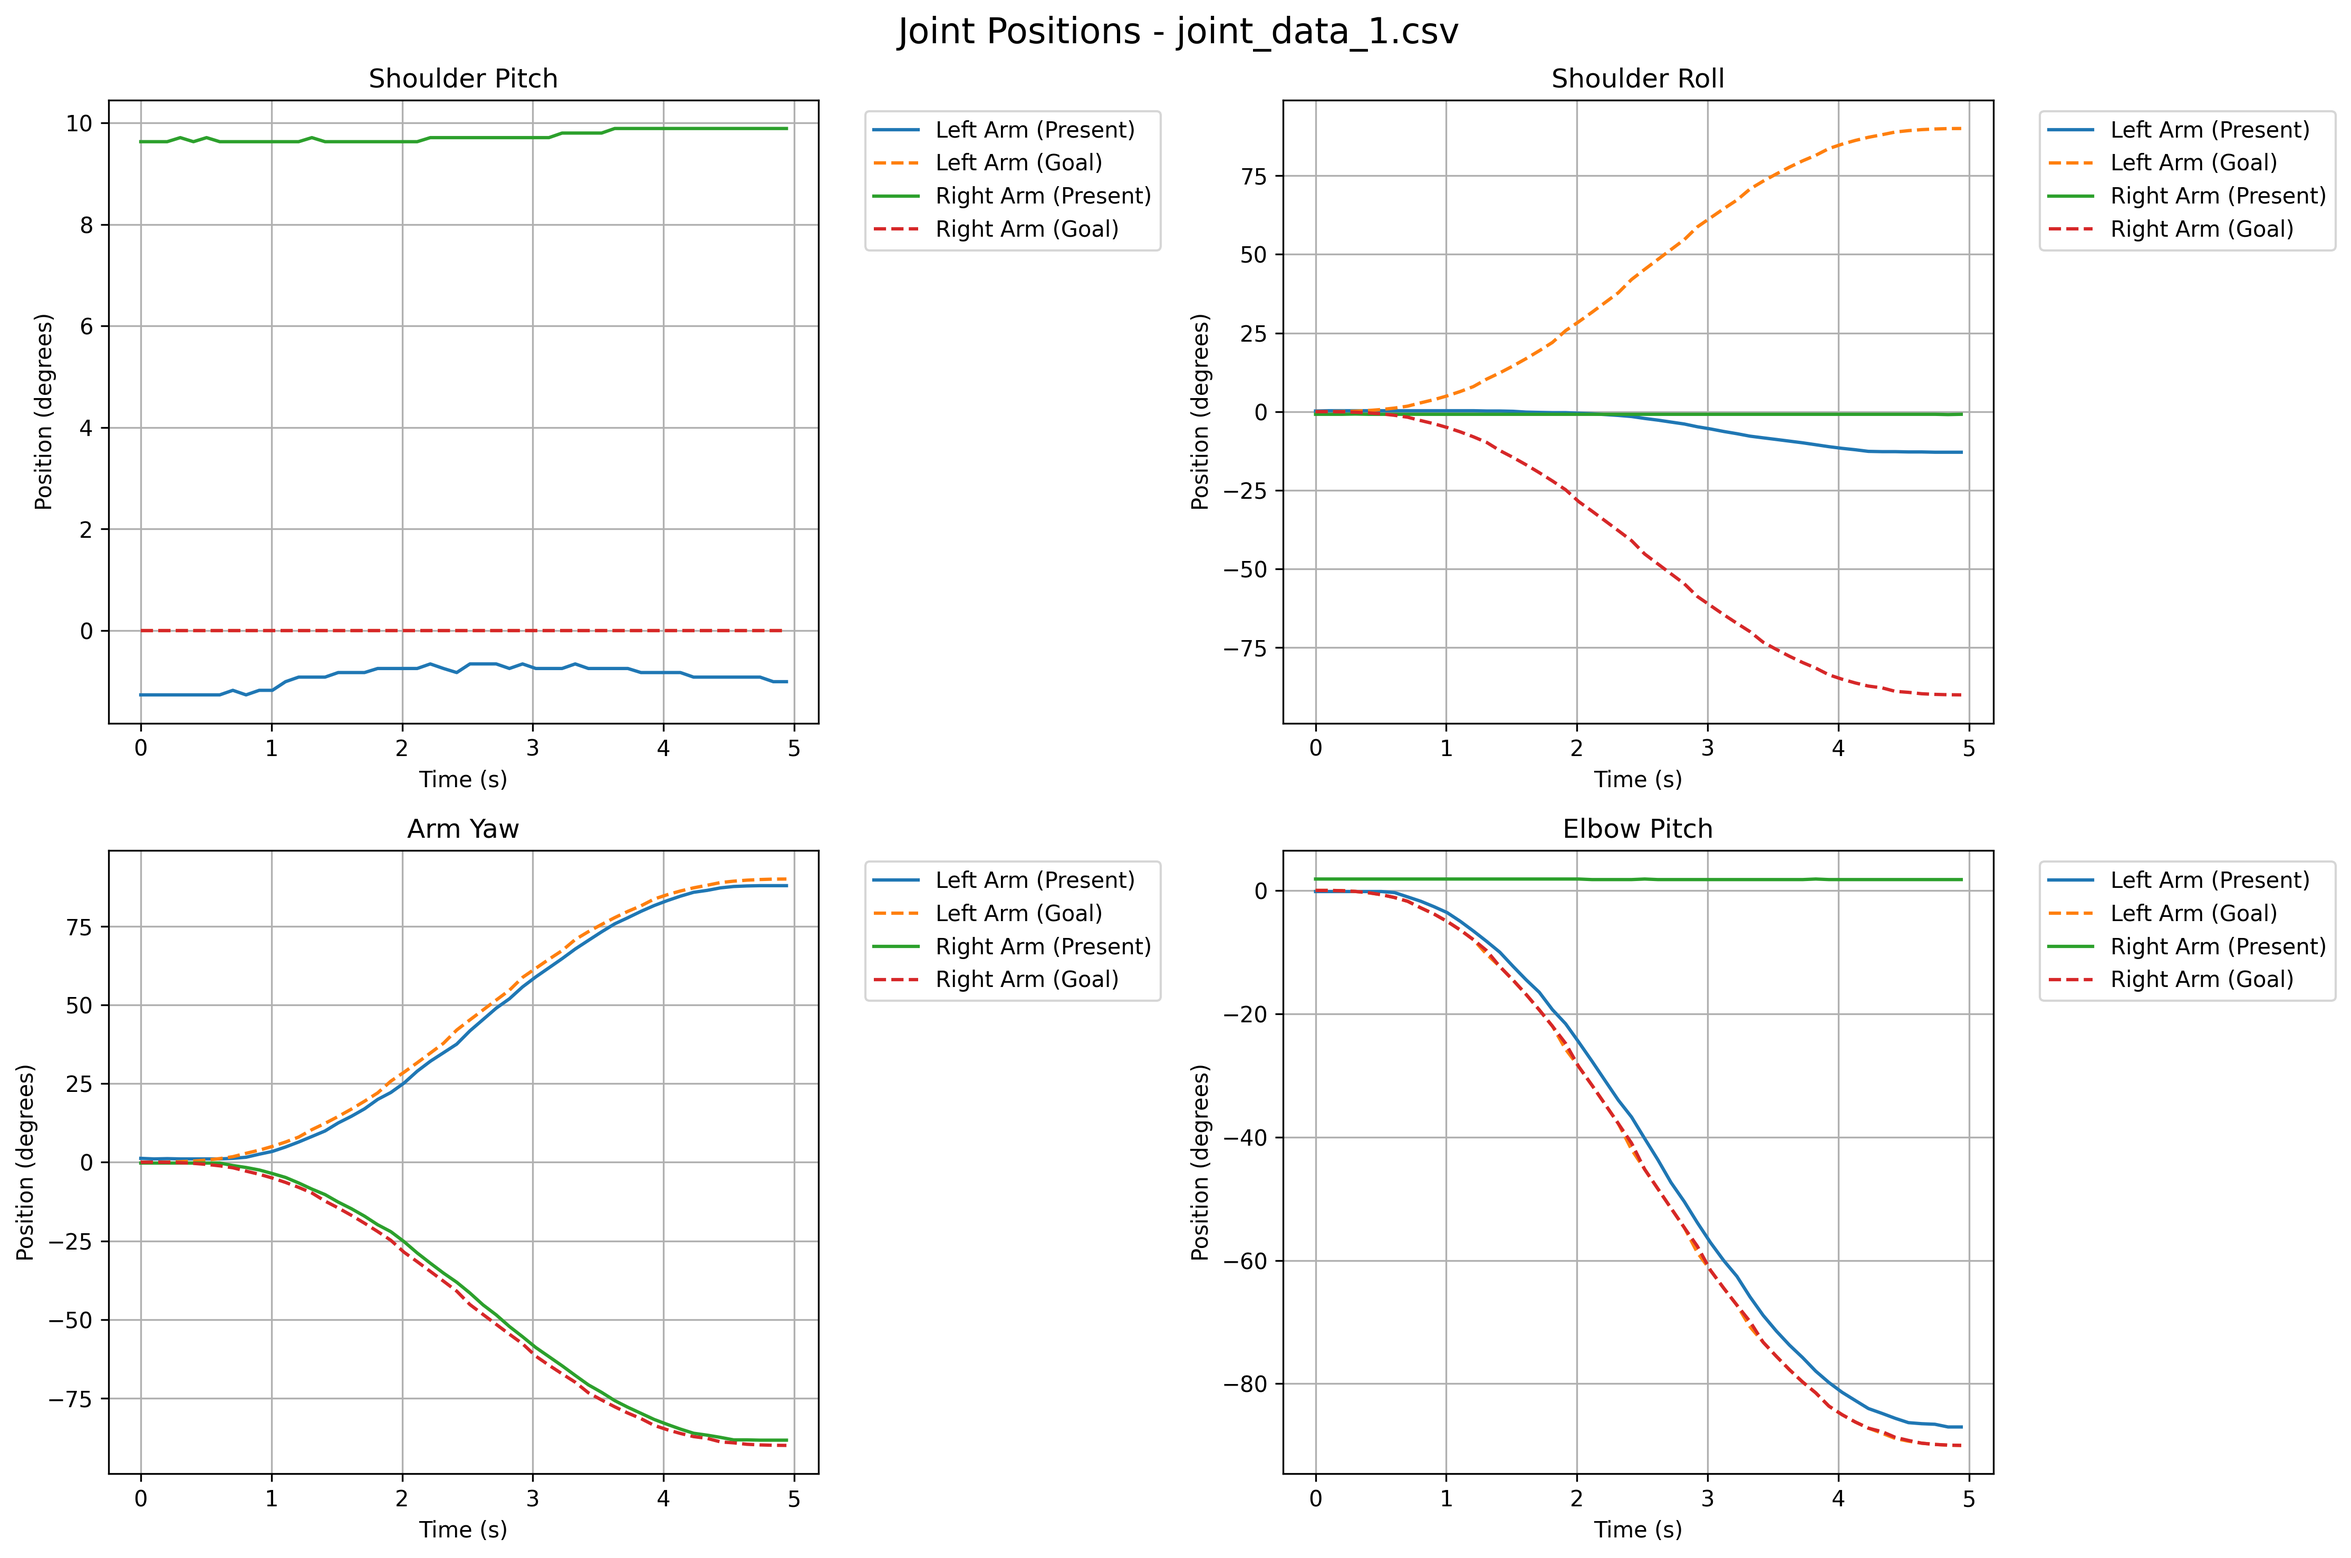
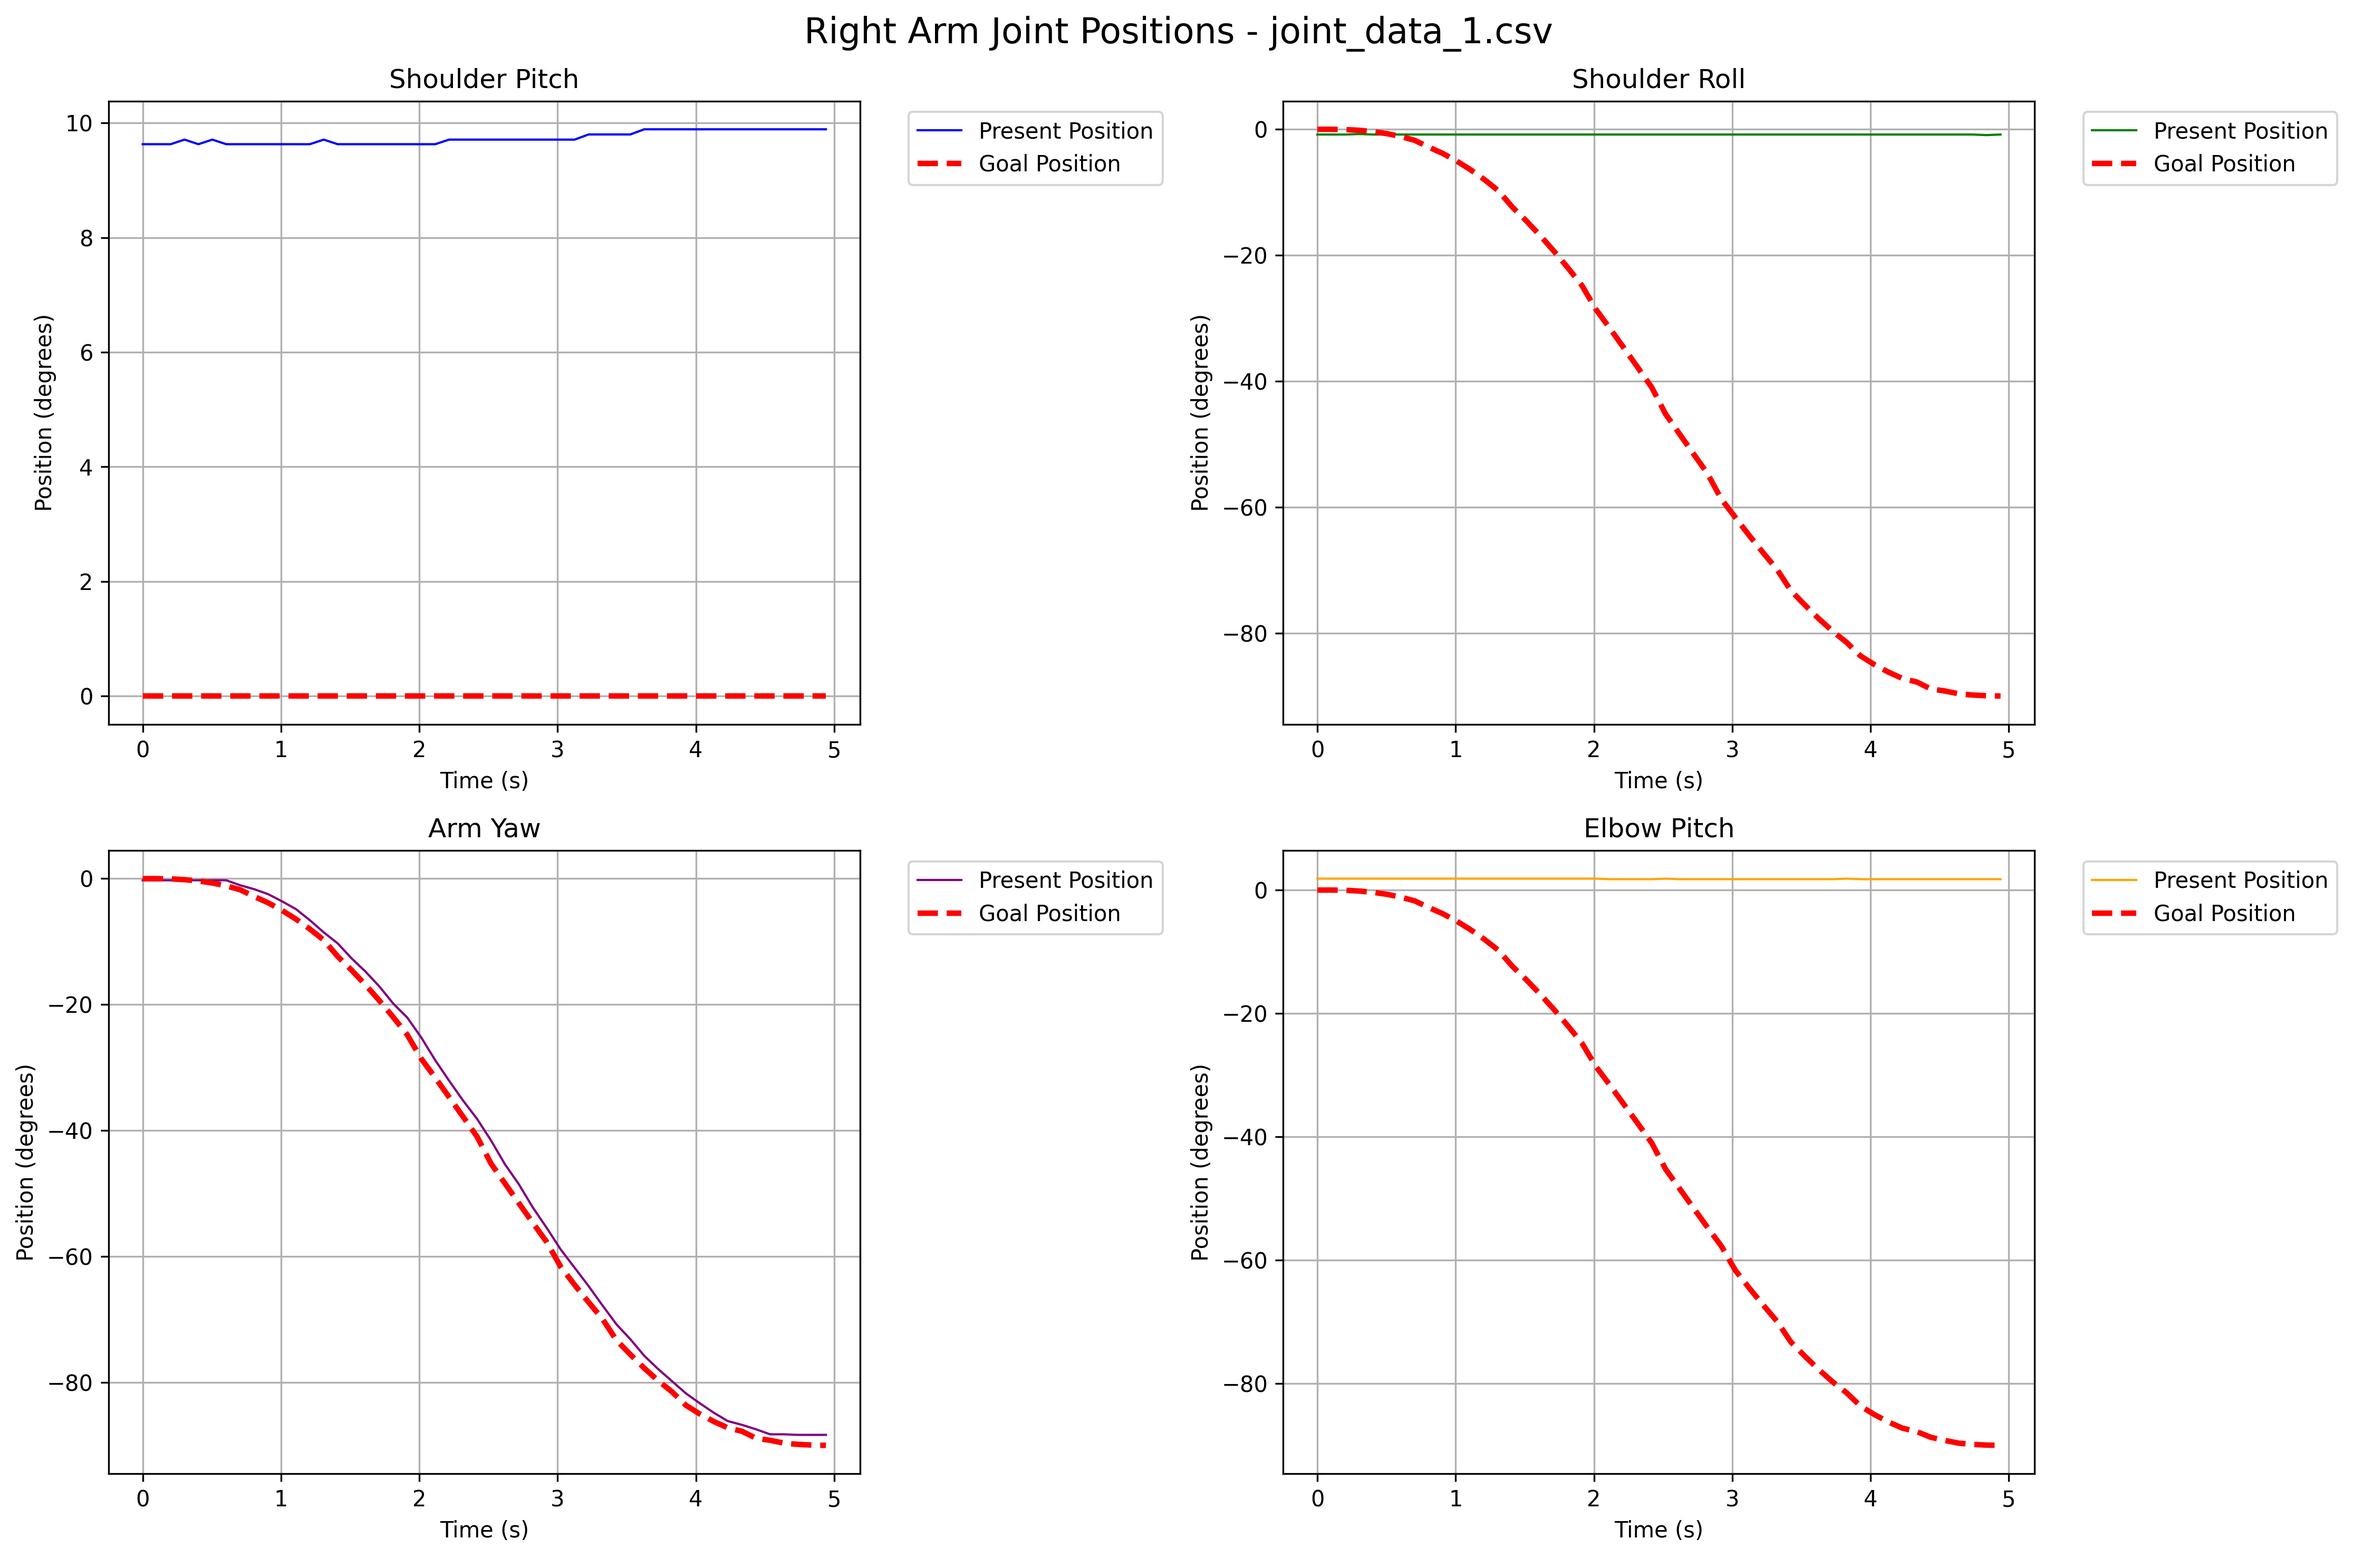
idk

diff --git a/report/visualize_joint_data.py b/report/visualize_joint_data.py
@@ -1,0 +1,153 @@
+"""Script to visualize elbow and shoulder joint data from CSV files."""
+
+import pandas as pd
+import matplotlib.pyplot as plt
+from pathlib import Path
+import os
+import numpy as np
+
+
+def load_all_data():
+    """Load all data files from the data directory."""
+    # Get the absolute path to the data directory
+    current_dir = Path(__file__).parent
+    data_dir = current_dir.parent / "data"
+
+    # Create data directory if it doesn't exist
+    data_dir.mkdir(exist_ok=True)
+
+    # List all CSV files
+    data_files = sorted(data_dir.glob("joint_data_*.csv"))
+
+    if not data_files:
+        print(f"No data files found in {data_dir}")
+        print("Please run collect_joint_data.py first to generate some data files.")
+        return []
+
+    print(f"Found {len(data_files)} data files in {data_dir}")
+    return data_files
+
+
+def plot_joint_data(all_dfs, filenames):
+    """Plot elbow and shoulder joint positions for all data files on the same graphs."""
+    # Define the joints we want to plot with their exact column names
+    joints = {
+        "shoulder_pitch": {
+            "present": "r_arm_r_shoulder_pitch_position",
+            "goal": "r_arm_r_shoulder_pitch_goal_position",
+        },
+        "shoulder_roll": {
+            "present": "r_arm_r_shoulder_roll_position",
+            "goal": "r_arm_r_shoulder_roll_goal_position",
+        },
+        "arm_yaw": {
+            "present": "r_arm_r_arm_yaw_position",
+            "goal": "r_arm_r_arm_yaw_goal_position",
+        },
+        "elbow_pitch": {
+            "present": "r_arm_r_elbow_pitch_position",
+            "goal": "r_arm_r_elbow_pitch_goal_position",
+        },
+    }
+
+    # Create a figure with subplots for each joint
+    fig, axes = plt.subplots(2, 2, figsize=(15, 10))
+    # fig.suptitle("Right Arm Joint Positions - All Trajectories", fontsize=16)
+    axes = axes.flatten()
+
+    # Define colors for different trajectories
+    colors = [
+        "#1f77b4",
+        "#ff7f0e",
+        "#2ca02c",
+        "#d62728",
+        "#9467bd",
+        "#8c564b",
+        "#e377c2",
+        "#7f7f7f",
+        "#bcbd22",
+        "#17becf",
+    ]
+
+    # Plot each joint
+    for idx, (joint_name, columns) in enumerate(joints.items()):
+        ax = axes[idx]
+        has_data = False
+
+        # Plot each trajectory
+        for df_idx, (df, filename) in enumerate(zip(all_dfs, filenames)):
+            # Plot present position
+            if columns["present"] in df.columns:
+                has_data = True
+                ax.plot(
+                    df["timestamp"],
+                    df[columns["present"]],
+                    color=colors[df_idx],
+                    label=f"Trial {filename.split('_')[2].strip('.csv')}",
+                    linewidth=1.5,
+                    alpha=0.9,
+                )
+
+            # Plot goal position with thicker red dotted line
+            if columns["goal"] in df.columns:
+                has_data = True
+                ax.plot(
+                    df["timestamp"],
+                    df[columns["goal"]],
+                    color="red",
+                    linestyle="--",
+                    label=f"Goal position" if df_idx == 0 else None,
+                    linewidth=2.5,
+                    alpha=0.9,
+                )
+
+        if has_data:
+            ax.set_title(joint_name.replace("_", " ").title())
+            ax.set_xlabel("Time (s)")
+            ax.set_ylabel("Position (degrees)")
+            ax.grid(True)
+            ax.legend(bbox_to_anchor=(1.05, 1), loc="upper left")
+        else:
+            ax.set_visible(False)
+
+    plt.tight_layout()
+
+    # Save the figure
+    current_dir = Path(__file__).parent
+    graphs_dir = current_dir.parent / "data" / "graphs"
+    graphs_dir.mkdir(exist_ok=True)
+
+    # Create filename for the graph
+    save_path = graphs_dir / "all_trajectories.png"
+
+    plt.savefig(save_path, bbox_inches="tight", dpi=300)
+    print(f"Saved graph to {save_path}")
+    plt.close()
+
+
+def main():
+    """Main function to run the visualization."""
+    # Load all data files
+    data_files = load_all_data()
+
+    if not data_files:
+        return
+
+    # Load all dataframes
+    all_dfs = []
+    filenames = []
+    for file_path in data_files:
+        print(f"\nProcessing {file_path.name}")
+        try:
+            df = pd.read_csv(file_path)
+            all_dfs.append(df)
+            filenames.append(file_path.name)
+        except Exception as e:
+            print(f"Error processing {file_path.name}: {str(e)}")
+
+    if all_dfs:
+        plot_joint_data(all_dfs, filenames)
+
+
+if __name__ == "__main__":
+    main()

diff --git a/report/collect_joint_data.py b/report/collect_joint_data.py
@@ -21,9 +21,9 @@ def collect_joint_data(duration=3.0, sampling_rate=0.1):
         sampling_rate: Time between samples in seconds
     """
     # Create data directory if it doesn't exist
-    data_dir = os.path.join(os.path.dirname(os.path.dirname(__file__)), 'data')
+    data_dir = os.path.join(os.path.dirname(os.path.dirname(__file__)), "data")
     os.makedirs(data_dir, exist_ok=True)
-    
+
     # Create CSV filename with timestamp
     timestamp = datetime.now().strftime("%Y%m%d_%H%M%S")
     filename = os.path.join(data_dir, f"joint_data_{timestamp}.csv")
